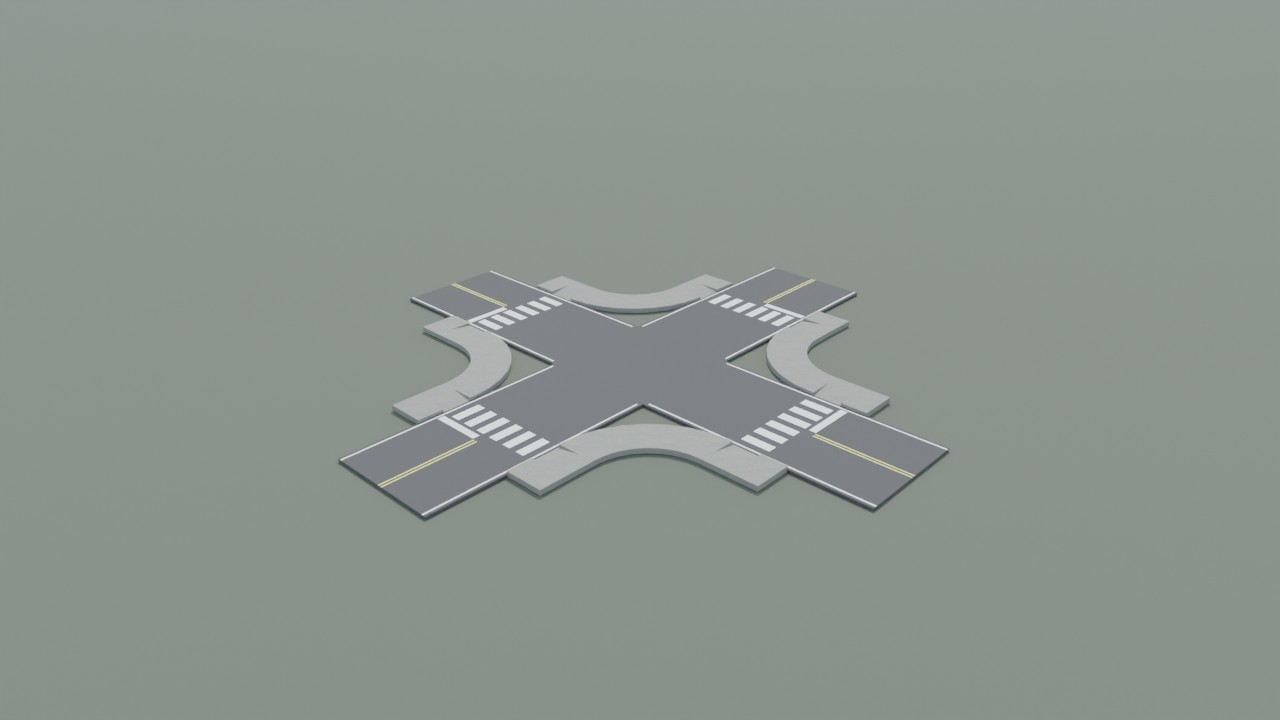
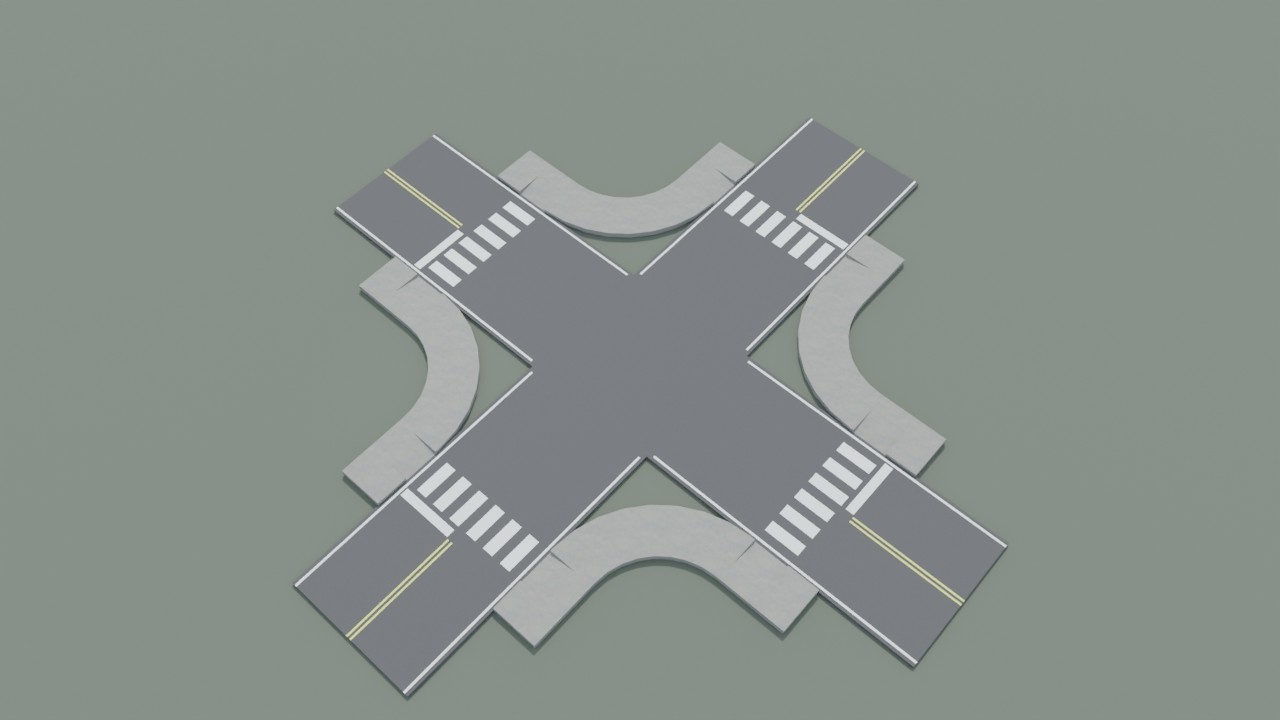
Render the pass 21 review stills as JPEG.
The cabin and junction heroes use a higher camera so the chimney and both yellow lines stay in frame with one road tile on each arm. Before stills are the pass 20 meshes from that same camera.

diff --git a/Tools/Blender/AssetLibrary/render_pass21.py b/Tools/Blender/AssetLibrary/render_pass21.py
@@ -21,9 +21,9 @@ HIER_FBX = os.path.join(
 )
 
 # Pulled back so the chimney top stays in frame with the door.
-_CABIN = (32.0, (6.4, 2.8, 6.8), (0.2, 1.9, 0.2), 26.0, (0.34, 0.36, 0.32))
-# Whole crossing, one straight tile past each arm, sidewalks out to about ±16 m.
-_JUNCTION_CAM = ((30.0, 22.0, 32.0), (0.0, 0.25, 0.0), 28.0)
+_CABIN = (32.0, (8.2, 5.5, 8.6), (0.3, 2.0, 0.2), 32.0, (0.34, 0.36, 0.32))
+# High enough that a 10 cm yellow gap is a few pixels, still wide enough for one tile per arm.
+_JUNCTION_CAM = ((16.0, 38.0, 18.0), (0.0, 0.2, 0.0), 32.0)
 _JUNCTION_GROUND = (0.16, 0.18, 0.14)
 _ROAD_AT = 13.0
 
@@ -135,7 +135,9 @@ def _shots(found):
         path = os.path.join(STILL_DIR, "%s_cabin.jpg" % tag)
         shots.append((
             "%s_cabin" % tag,
-            lambda p=path: _one(found, "Cabin", yaw, cam, aim, lens, p, ground),
+            lambda p=path, yaw=yaw, cam=cam, aim=aim, lens=lens, ground=ground: _one(
+                found, "Cabin", yaw, cam, aim, lens, p, ground
+            ),
         ))
     shots.append((
         "cabin_runner",
